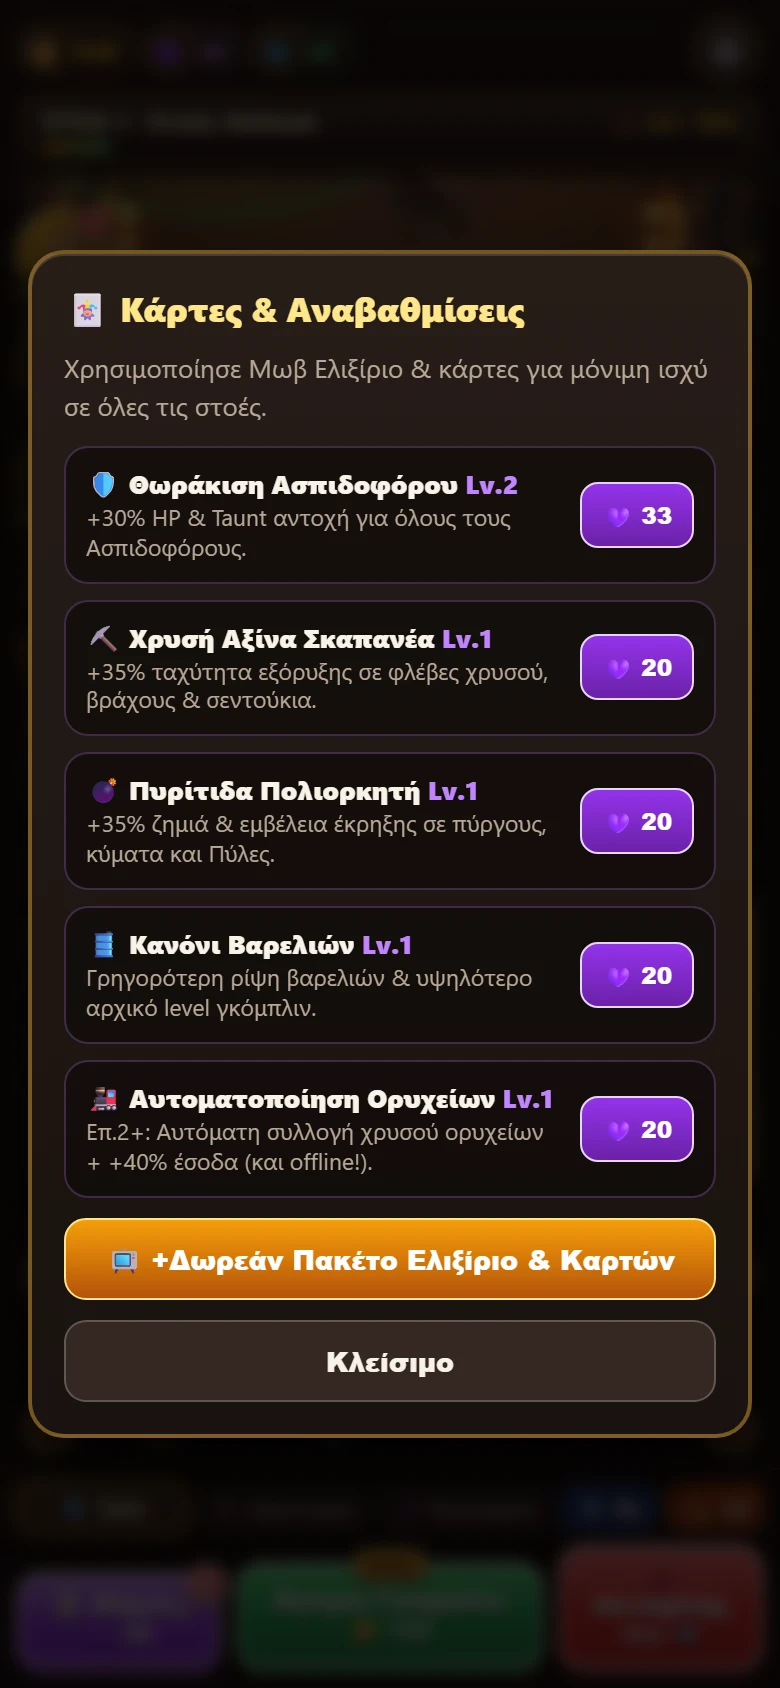
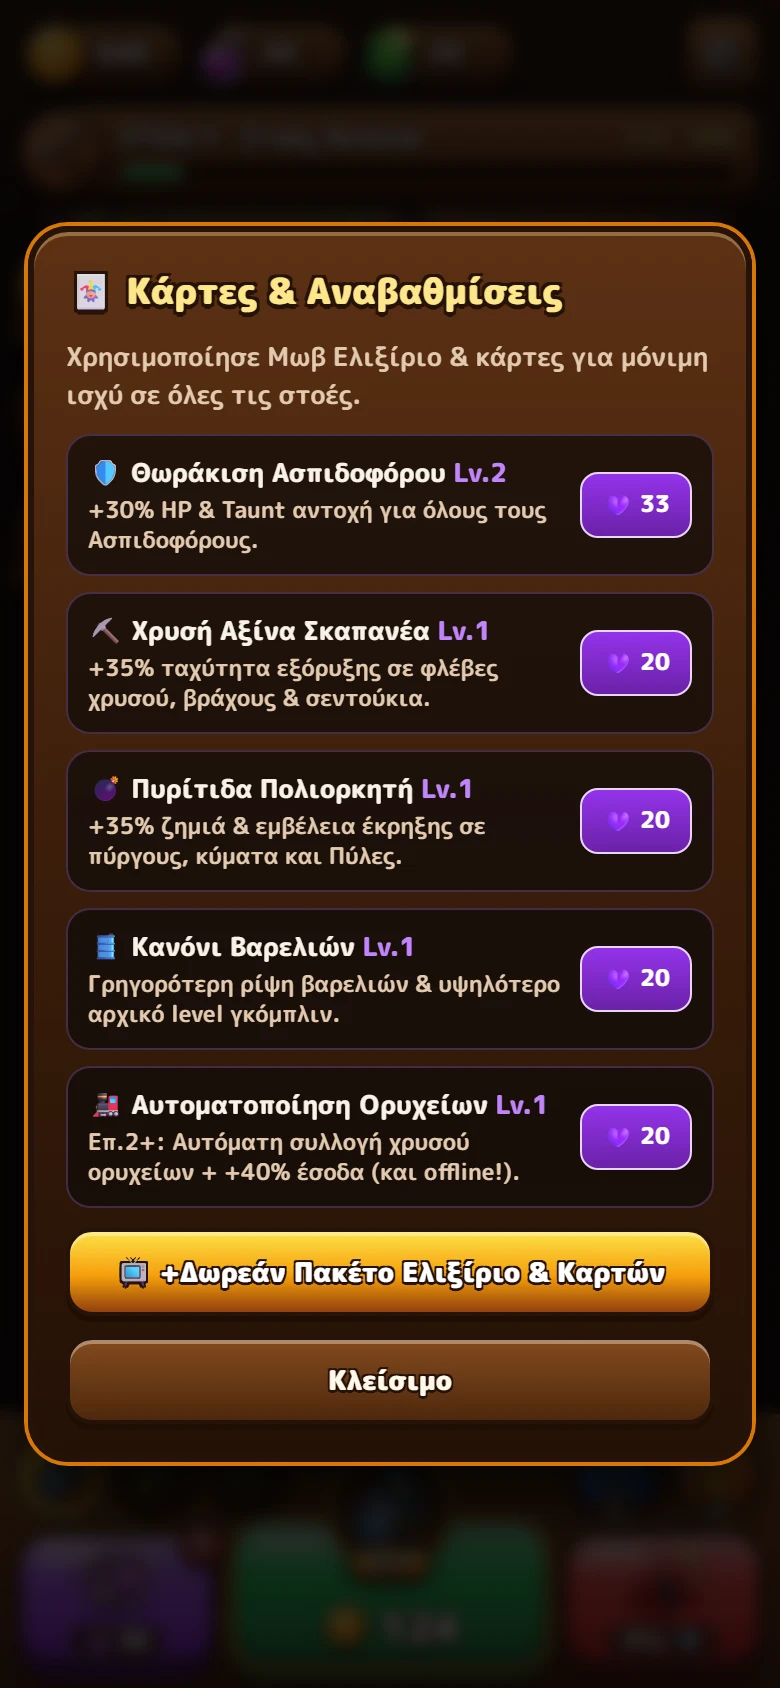
v1.3.0: Update screenshots, README & version manifest

diff --git a/README.md b/README.md
@@ -21,7 +21,7 @@
 </p>
 
 <p align="center">
-  <img src="https://img.shields.io/badge/Version-v1.2.0-brightgreen" alt="Version v1.2.0" />
+  <img src="https://img.shields.io/badge/Version-v1.3.0-brightgreen" alt="Version v1.3.0" />
   <img src="https://img.shields.io/badge/Package-app.jemangr.bastionbreaker-blue" alt="Package app.jemangr.bastionbreaker" />
   <img src="https://img.shields.io/badge/Platform-Android%208.0%2B-purple" alt="Android 8.0+" />
   <img src="https://img.shields.io/badge/Languages-EL%20%7C%20EN-gold" alt="Languages EL | EN" />
@@ -40,10 +40,11 @@ Always get the latest official Android APK build from this permanent link:
 
 ---
 
-## ✨ Key Highlights (`v1.2.0`)
+## ✨ Key Highlights (`v1.3.0`)
 
+- 🎨 **Option 1 Bouncy Cartoon 3D HUD (Gold & Goblins–Inspired):** Warm carved-wood resource capsules & mine crest, 12 dedicated 3D UI icons (`coin`, `elixir`, `gem`, `pickaxe`, `gear`, `wheel`, `lightning`, `stopwatch`, `cards`, `shield`, `fire`, `gate`), circular goblin class/spell orbs, and glossy 3D pillow buttons with your Goblin hero popping proudly above the summon button!
+- 🔤 **Offline Cartoon Rounded Typography:** Bundled Greek & Latin `M PLUS Rounded 1c` (`700/800/900`) with heavy cartoon dark-brown outlines across the HUD, modals, and 2.5D Canvas.
 - 🛒 **Rolling Forge Wagon (Scrolls With You!):** Your Barrel Cannon, supply barrels, and 6-slot goblin merge dock roll alongside you as you scroll up through the cavern, so recruiting & dropping goblins into battle is always one thumb away!
-- 🎨 **Sculpted Bronze & Iron Siege HUD:** Forged resource capsules, live Fortress Progress Bar, floating left event medallions (`🎡` Lucky Roulette, `⚡` ×2 Boost, `⏱` Daily Raid), raised-center Goblin Summon hero button, and right-edge Depth Minimap + quick-scroll controls (`⛩` / `⚔` / `⬇`).
 - 📜 **Deeper `1920px` 3-Zone Caverns & Checkpoint Gate:** Fight through Outer Tunnels (`y=1120..1850`), shatter the fortified **Mid-Mine Checkpoint Gate** (`y=1000`), liberate inner outposts, and topple guarded Boss Gates (`-50%` Gate Shield while ≥2 towers stand), with smooth tunnel scroll transitions between Mines!
 - 🎡 **Ad-Powered Lucky Roulette:** Claim 1 free daily spin or watch Demo Rewarded Ads from the golden `🎡` medallion to spin the 8-prize Fortune Wheel.
 - 🗼 **Tower Flip & Marching Knight Waves:** Every enemy tower (Archer, Cannon, Ice, Tesla) shoots & deploys Iron Legion Knight waves — destroy a tower to flip it emerald green into a Healing, Bombardment, Haste, or `×2` Gold support tower!
